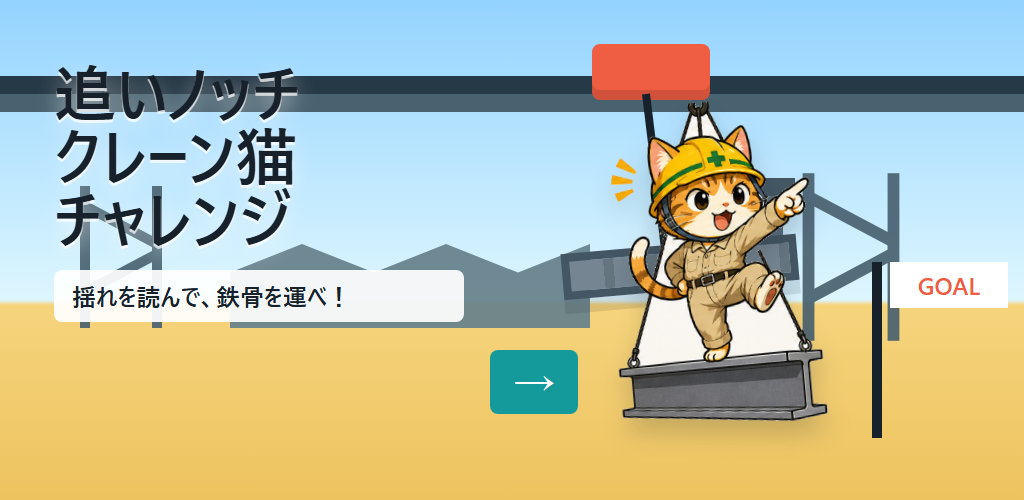
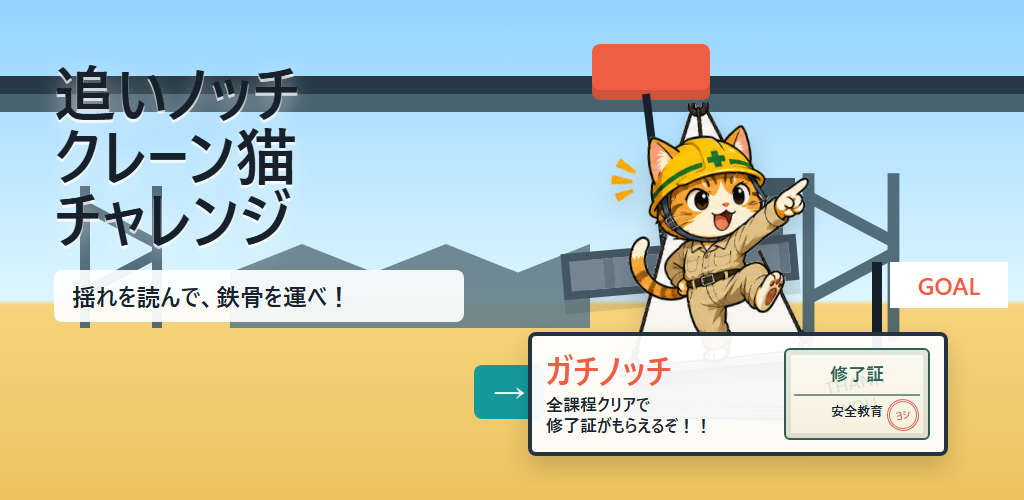
Promote gachinotch in store assets

Changed region(s): [[0.4375, 0.66, 0.9375, 0.93]]

diff --git a/store-assets/feature-graphic.html b/store-assets/feature-graphic.html
@@ -194,17 +194,113 @@
 
       .arrow {
         position: absolute;
-        left: 490px;
-        top: 350px;
+        left: 474px;
+        top: 365px;
         display: grid;
         place-items: center;
-        width: 88px;
-        height: 64px;
+        width: 70px;
+        height: 54px;
         border-radius: 8px;
         background: var(--teal);
         color: white;
-        font-size: 44px;
+        font-size: 34px;
         font-weight: 900;
+      }
+
+      .gachinotch {
+        position: absolute;
+        z-index: 2;
+        left: 528px;
+        top: 332px;
+        display: grid;
+        grid-template-columns: 1fr 146px;
+        gap: 14px;
+        align-items: center;
+        width: 420px;
+        padding: 12px 14px;
+        border: 4px solid #25333f;
+        border-radius: 8px;
+        background: rgb(255 255 255 / 0.94);
+        box-shadow: 0 12px 24px rgb(23 33 43 / 18%);
+      }
+
+      .gachinotch h2,
+      .gachinotch p {
+        margin: 0;
+        letter-spacing: 0;
+      }
+
+      .gachinotch h2 {
+        color: var(--accent);
+        font-size: 34px;
+        line-height: 1;
+      }
+
+      .gachinotch p {
+        margin-top: 7px;
+        font-size: 17px;
+        font-weight: 1000;
+        line-height: 1.22;
+      }
+
+      .certificate-mini {
+        position: relative;
+        height: 92px;
+        padding: 12px 8px 8px;
+        border: 2px solid #2e5f52;
+        border-radius: 6px;
+        background: linear-gradient(#fbfaf2, #f6f0dc);
+        box-shadow: inset 0 0 0 5px rgb(46 95 82 / 0.12);
+        text-align: center;
+        overflow: hidden;
+      }
+
+      .certificate-mini::before {
+        content: "thank you";
+        position: absolute;
+        left: 50%;
+        top: 50%;
+        color: rgb(46 95 82 / 0.12);
+        font-size: 18px;
+        font-weight: 1000;
+        text-transform: uppercase;
+        transform: translate(-50%, -50%) rotate(-12deg);
+      }
+
+      .certificate-mini b,
+      .certificate-mini span {
+        position: relative;
+        display: block;
+      }
+
+      .certificate-mini b {
+        color: #2e5f52;
+        font-size: 18px;
+      }
+
+      .certificate-mini span {
+        margin-top: 8px;
+        border-top: 2px solid #78958c;
+        padding-top: 6px;
+        font-size: 13px;
+        font-weight: 1000;
+      }
+
+      .certificate-mini i {
+        position: absolute;
+        right: 9px;
+        bottom: 7px;
+        display: grid;
+        place-items: center;
+        width: 32px;
+        height: 32px;
+        border: 3px double rgb(214 69 69 / 0.82);
+        border-radius: 50%;
+        color: rgb(214 69 69 / 0.88);
+        font-size: 10px;
+        font-style: normal;
+        font-weight: 1000;
+        transform: rotate(-10deg);
       }
 
       .goal {
@@ -246,6 +342,17 @@
       <div class="load"></div>
       <img class="cat" src="../assets/cat-beam-anime.png" alt="">
       <div class="arrow">→</div>
+      <div class="gachinotch">
+        <div>
+          <h2>ガチノッチ</h2>
+          <p>全課程クリアで<br>修了証がもらえるぞ！！</p>
+        </div>
+        <div class="certificate-mini">
+          <b>修了証</b>
+          <span>安全教育</span>
+          <i>ヨシ</i>
+        </div>
+      </div>
       <div class="goal"></div>
     </div>
     <section class="title">

diff --git a/store-assets/store-listing-ja.md b/store-assets/store-listing-ja.md
@@ -24,6 +24,8 @@
 - 片手で遊べる矢印ボタン操作
 - クレーンの揺れを使ったシンプルで奥深い物理アクション
 - 全10ステージを最初からプレイ可能
+- 右ボタンだけで本格的な追いノッチに挑む「ガチノッチ」搭載
+- ガチノッチ全課程をクリアすると、特別教育風の修了証を表示
 - オートクリア機能で難しいステージの動きを確認可能
 - 工場・港を舞台にした、ゆるくて少し本格的なクレーン猫の世界
 
@@ -40,4 +42,4 @@
 3. ステージ1の基本操作
 4. 揺れ検査ゲート
 5. ショベルカーまたはフォークリフト
-6. ゴール画面またはエンディングボタン解放
+6. ガチノッチと修了証

diff --git a/store-assets/play-console-copy-paste-ja.md b/store-assets/play-console-copy-paste-ja.md
@@ -26,6 +26,8 @@
 - 矢印ボタンだけで遊べる簡単操作
 - クレーンの揺れを使ったシンプルで奥深い物理アクション
 - 全10ステージを最初からプレイ可能
+- 右ボタンだけで本格的な追いノッチに挑む「ガチノッチ」搭載
+- ガチノッチ全課程をクリアすると、特別教育風の修了証を表示
 - 難しいステージはオートモードで動きを確認可能
 - 工場・港を舞台にした、かわいいクレーン猫の世界
 
